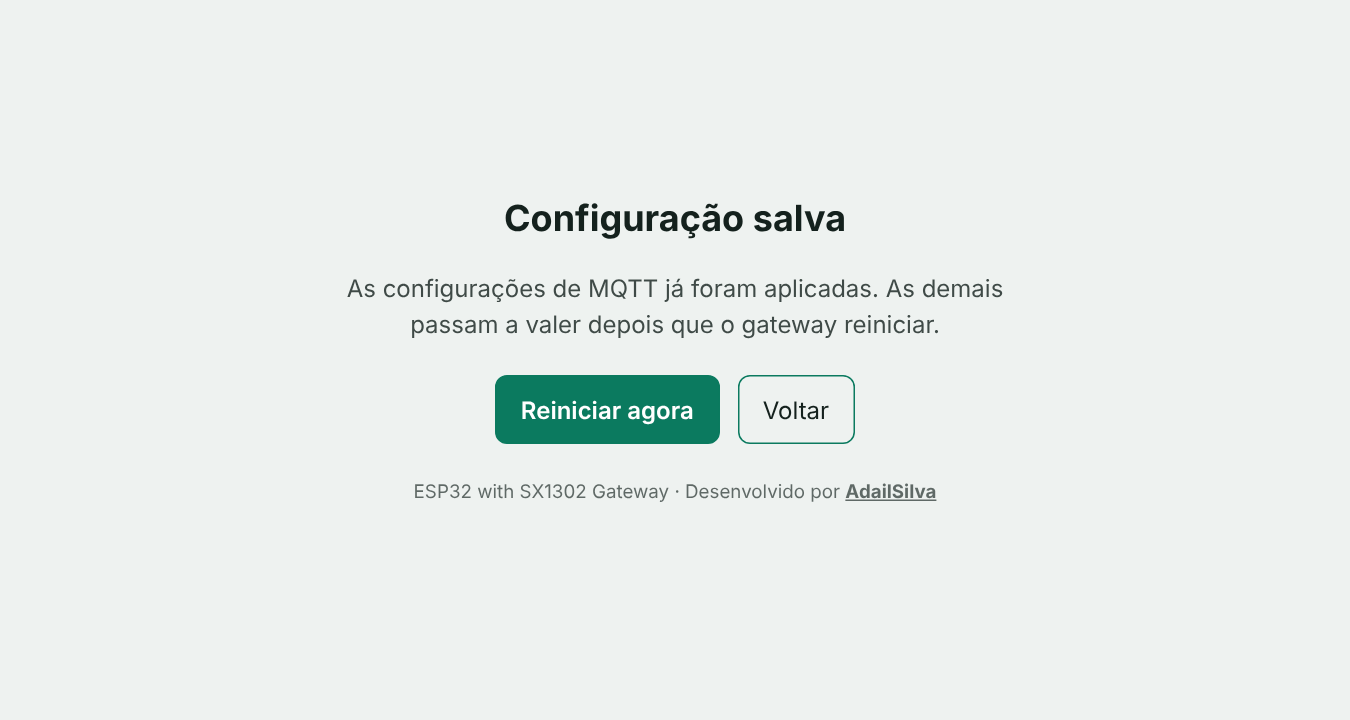
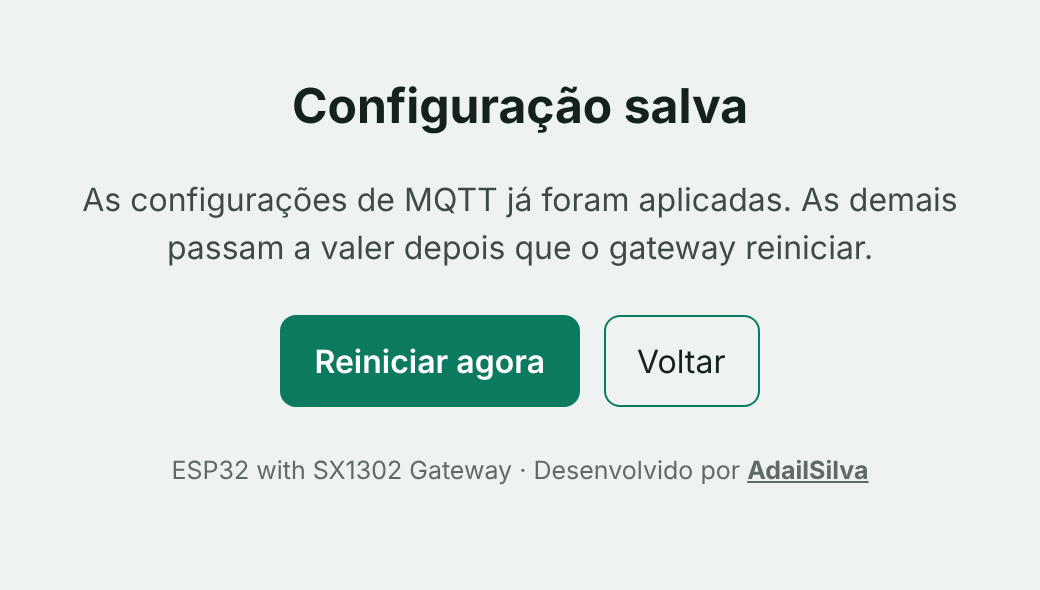
Documentation update
Documentation update.

diff --git a/README.md b/README.md
@@ -388,14 +388,17 @@ Os oito cartões:
 O mesmo painel no tema escuro e logo depois do primeiro boot, em Soft AP (concentrador ainda parado):
 
 <p align="center">
-  <img src="doc/images/web/web_01_status_dark.png" alt="Tela de configuração no tema escuro" width="49%"/>
-  <img src="doc/images/web/web_09_softap.png" alt="Primeiro acesso em Soft AP, com o encaminhador parado" width="49%"/>
+  <img src="doc/images/web/web_01_status_dark.png" alt="Tela de configuração no tema escuro" width="100%"/>
+</p>
+
+<p align="center">
+  <img src="doc/images/web/web_09_softap.png" alt="Primeiro acesso em Soft AP, com o encaminhador parado" width="100%"/>
 </p>
 
 #### 1.2 Rede Wi-Fi
 
 <p align="center">
-  <img src="doc/images/web/web_02_wifi.png" alt="Seção Rede Wi-Fi com IP fixo" width="85%"/>
+  <img src="doc/images/web/web_02_wifi.png" alt="Seção Rede Wi-Fi com IP fixo" width="100%"/>
 </p>
 
 | Campo | Para que serve |
@@ -411,7 +414,7 @@ Com IP fixo, a página confere se o roteador está na mesma rede do IP (pela má
 #### 1.3 Servidor LoRaWAN (UDP)
 
 <p align="center">
-  <img src="doc/images/web/web_03_lorawan_udp.png" alt="Seção Servidor LoRaWAN" width="85%"/>
+  <img src="doc/images/web/web_03_lorawan_udp.png" alt="Seção Servidor LoRaWAN" width="100%"/>
 </p>
 
 | Campo | Para que serve |
@@ -426,7 +429,7 @@ Com o MQTT ativado aparece o aviso *“UDP desligado”*: host e porta continuam
 #### 1.4 MQTT
 
 <p align="center">
-  <img src="doc/images/web/web_04_mqtt.png" alt="Seção MQTT com os certificados TLS abertos" width="85%"/>
+  <img src="doc/images/web/web_04_mqtt.png" alt="Seção MQTT com os certificados TLS abertos" width="100%"/>
 </p>
 
 A faixa do topo mostra o estado ao vivo: broker, formato, codificação, downlinks recebidos/agendados, mensagens enviadas e tópico. Em caso de falha, mostra o último erro (*“Não conectado a … : <erro>”*).
@@ -450,7 +453,7 @@ As configurações de MQTT valem assim que você clica em **Salvar**; não preci
 #### 1.5 Rádio LoRa
 
 <p align="center">
-  <img src="doc/images/web/web_05_radio.png" alt="Seção Rádio LoRa com o gráfico da sub-banda" width="85%"/>
+  <img src="doc/images/web/web_05_radio.png" alt="Seção Rádio LoRa com o gráfico da sub-banda" width="100%"/>
 </p>
 
 - **Plano de frequência:** AU915 sub-banda 0 e sub-banda 1 (padrão no Brasil) ficam à vista; CN470, EU868 e US915 ficam em **Outros planos** (abre sozinho se um deles estiver salvo). Cada opção tem o link **JSON**, que abre o arquivo do plano em uma aba nova.
@@ -460,14 +463,14 @@ As configurações de MQTT valem assim que você clica em **Salvar**; não preci
 #### 1.6 Inicialização e 1.7 Acesso
 
 <p align="center">
-  <img src="doc/images/web/web_06_boot.png" alt="Seção Inicialização" width="85%"/>
+  <img src="doc/images/web/web_06_boot.png" alt="Seção Inicialização" width="100%"/>
 </p>
 
 - **Modo Station:** conecta na rede Wi-Fi configurada (uso normal).
 - **Modo Soft AP:** na próxima vez sobe a rede `esp32` (senha `esp32wifi`) para configurar em `192.168.4.1`. O botão **BOOT** logo após o reset faz o mesmo sem mexer nesta opção.
 
 <p align="center">
-  <img src="doc/images/web/web_07_access.png" alt="Seção Acesso" width="85%"/>
+  <img src="doc/images/web/web_07_access.png" alt="Seção Acesso" width="100%"/>
 </p>
 
 - **Usuário**, **Nova senha** e **Confirmar nova senha** da própria página. Senha vazia mantém a atual. Ao salvar uma troca, o navegador pede o novo login.
@@ -502,9 +505,15 @@ O firmware também confere o login: se um usuário ou senha inválido chegar a s
 #### 1.9 Telas de confirmação
 
 <p align="center">
-  <img src="doc/images/web/web_10_saved.png" alt="Configuração salva" width="32%"/>
-  <img src="doc/images/web/web_11_reboot.png" alt="Reiniciando" width="32%"/>
-  <img src="doc/images/web/web_12_logout.png" alt="Você saiu" width="32%"/>
+  <img src="doc/images/web/web_10_saved.png" alt="Configuração salva" width="70%"/>
+</p>
+
+<p align="center">
+  <img src="doc/images/web/web_11_reboot.png" alt="Reiniciando" width="70%"/>
+</p>
+
+<p align="center">
+  <img src="doc/images/web/web_12_logout.png" alt="Você saiu" width="70%"/>
 </p>
 
 | Tela | Quando aparece | Botões |
@@ -552,8 +561,11 @@ Testes de rede feitos **a partir do gateway**, no estilo da tela *Network → Di
 - Enquanto um teste roda, as outras páginas do gateway esperam ele terminar (ping ~5 s, traceroute até ~15 s), porque o servidor HTTP atende um pedido por vez.
 
 <p align="center">
-  <img src="doc/images/web/web_15_diag_trace.png" alt="Diagnósticos: traceroute" width="49%"/>
-  <img src="doc/images/web/web_15_diag_dns.png" alt="Diagnósticos: nslookup" width="49%"/>
+  <img src="doc/images/web/web_15_diag_trace.png" alt="Diagnósticos: traceroute" width="100%"/>
+</p>
+
+<p align="center">
+  <img src="doc/images/web/web_15_diag_dns.png" alt="Diagnósticos: nslookup" width="100%"/>
 </p>
 
 ### 4. JSON do plano de frequência
@@ -561,14 +573,13 @@ Testes de rede feitos **a partir do gateway**, no estilo da tela *Network → Di
 Os links **JSON** da seção Rádio LoRa abrem o `global_conf.json` embutido de cada plano (`/au915_sb0`, `/au915_sb1`, `/us915`, `/eu868`, `/cn470`), com os comentários que explicam o mapeamento dos canais. É o modelo que o gateway usa no boot, antes de aplicar o que foi salvo na página (frequências dos rádios, servidor, Gateway ID).
 
 <p align="center">
-  <img src="doc/images/web/web_16_plan_json.png" alt="JSON do plano AU915 sub-banda 1" width="80%"/>
+  <img src="doc/images/web/web_16_plan_json.png" alt="JSON do plano AU915 sub-banda 1" width="100%"/>
 </p>
 
 ### 5. No celular
 
 <p align="center">
-  <img src="doc/images/web/web_17_mobile.png" alt="Configuração no celular" width="32%"/>
-  <img src="doc/images/web/web_18_mobile_logs_dark.png" alt="Logs no celular, tema escuro" width="32%"/>
+  <img src="doc/images/web/web_17_mobile.png" alt="No celular: configuração (tema claro) e logs (tema escuro)" width="100%"/>
 </p>
 
 ### Endereços HTTP
